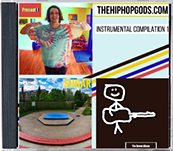
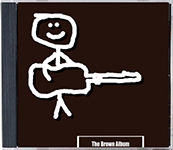
Removed Youtube Video + Compilation

diff --git a/index.html b/index.html
@@ -19,10 +19,8 @@ if(typeof Muse == "undefined") window.Muse = {}; window.Muse.assets = {"required
   <!-- CSS -->
   <link rel="stylesheet" type="text/css" href="css/site_global.css?crc=444006867"/>
   <link rel="stylesheet" type="text/css" href="css/master_a-master.css?crc=3806693221"/>
-  <link rel="stylesheet" type="text/css" href="css/index.css?crc=4276867006" id="pagesheet"/>
-    <!--HTML Widget code-->
-  <style type="text/css">#u4715.size_fluid_width_height iframe { position:absolute; left:0; top:0; }</style>
- </head>
+  <link rel="stylesheet" type="text/css" href="css/index.css?crc=4123129303" id="pagesheet"/>
+   </head>
  <body>
 
   <div class="clearfix borderbox" id="page"><!-- column -->
@@ -37,35 +35,27 @@ if(typeof Muse == "undefined") window.Muse = {}; window.Muse.assets = {"required
      <a class="nonblock nontext grpelem" id="u5539-4" href="https://iammeasgod.bandcamp.com/"><!-- rasterized frame --><img id="u5539-4_img" alt="Digital - 5$" src="images/u5539-4.png?crc=36391652" data-image-width="87"/></a>
     </div>
    </div>
-   <div class="size_fluid_width_height colelem" id="u4715" data-pintopage="page_fluidx" data-sizePolicy="fluidWidthHeight"><!-- custom html -->
-    <div class="fluid_height_spacer"></div>
-    
-<iframe class="actAsDiv" style="width:100%;height:100%;" src="//www.youtube.com/embed/_oKY7qGUNBQ?autoplay=0&loop=0&showinfo=0&theme=dark&color=red&controls=1&modestbranding=0&start=0&fs=1&iv_load_policy=1&wmode=transparent&rel=1" frameborder="0" allowfullscreen></iframe>
-
-   </div>
-   <a class="nonblock nontext clip_frame colelem" id="u5281" href="https://www.trepstar.com/purchase.asp?idprod=227480&amp;mode=itemlist"><!-- image --><img class="block" id="u5281_img" src="images/thumblargecdoutside1.jpg?crc=4143843053" alt="" data-heightwidthratio="0.8713450292397661" data-image-width="171" data-image-height="149"/></a>
-   <a class="nonblock nontext colelem" id="u5295-4" href="https://www.trepstar.com/purchase.asp?idprod=227480&amp;mode=itemlist"><!-- rasterized frame --><img id="u5295-4_img" alt="Buy CD - 10$" src="images/u5295-4.png?crc=3887067705" data-image-width="171"/></a>
-   <div class="clearfix colelem" id="pu4842"><!-- group -->
+   <div class="clearfix colelem" id="pu5281"><!-- group -->
+    <a class="nonblock nontext clip_frame grpelem" id="u5281" href="https://www.trepstar.com/purchase.asp?idprod=227480&amp;mode=itemlist"><!-- image --><img class="block" id="u5281_img" src="images/thumblargecdoutside1.jpg?crc=4143843053" alt="" data-heightwidthratio="0.8713450292397661" data-image-width="171" data-image-height="149"/></a>
     <a class="nonblock nontext clip_frame grpelem" id="u4842" href="https://www.trepstar.com/purchase.asp?idprod=227020&amp;mode=itemlist"><!-- image --><img class="block" id="u4842_img" src="images/thumblargecdoutside12.jpg?crc=402943338" alt="" data-heightwidthratio="0.867816091954023" data-image-width="174" data-image-height="151"/></a>
-    <a class="nonblock nontext clip_frame grpelem" id="u4814" href="https://www.trepstar.com/purchase.asp?idprod=219880&amp;mode=itemlist"><!-- image --><img class="block" id="u4814_img" src="images/thumblargecdoutside13.jpg?crc=4006735484" alt="" data-heightwidthratio="0.8728323699421965" data-image-width="173" data-image-height="151"/></a>
-    <a class="nonblock nontext clip_frame grpelem" id="u4802" href="https://www.trepstar.com/purchase.asp?idprod=219030&amp;mode=itemlist"><!-- image --><img class="block" id="u4802_img" src="images/thumblargecdoutside14.jpg?crc=4136506234" alt="" data-heightwidthratio="0.8670520231213873" data-image-width="173" data-image-height="150"/></a>
+    <a class="nonblock nontext clip_frame grpelem" id="u4802" href="https://www.trepstar.com/purchase.asp?idprod=219030&amp;mode=itemlist"><!-- image --><img class="block" id="u4802_img" src="images/thumblargecdoutside13.jpg?crc=4136506234" alt="" data-heightwidthratio="0.8670520231213873" data-image-width="173" data-image-height="150"/></a>
    </div>
-   <div class="clearfix colelem" id="pu5303-4"><!-- group -->
+   <div class="clearfix colelem" id="pu5295-4"><!-- group -->
+    <a class="nonblock nontext grpelem" id="u5295-4" href="https://www.trepstar.com/purchase.asp?idprod=227480&amp;mode=itemlist"><!-- rasterized frame --><img id="u5295-4_img" alt="Buy CD - 10$" src="images/u5295-4.png?crc=3887067705" data-image-width="171"/></a>
     <a class="nonblock nontext grpelem" id="u5303-4" href="https://www.trepstar.com/purchase.asp?idprod=227020&amp;mode=itemlist"><!-- rasterized frame --><img id="u5303-4_img" alt="Buy CD - 10$" src="images/u5303-4.png?crc=19498023" data-image-width="173"/></a>
-    <a class="nonblock nontext grpelem" id="u5309-4" href="https://www.trepstar.com/purchase.asp?idprod=219880&amp;mode=itemlist"><!-- rasterized frame --><img id="u5309-4_img" alt="Buy CD - 10$" src="images/u5309-4.png?crc=19498023" data-image-width="173"/></a>
     <a class="nonblock nontext grpelem" id="u5315-4" href="https://www.trepstar.com/purchase.asp?idprod=219030&amp;mode=itemlist"><!-- rasterized frame --><img id="u5315-4_img" alt="Buy CD - 10$" src="images/u5315-4.png?crc=19498023" data-image-width="173"/></a>
    </div>
    <div class="clearfix colelem" id="pu4782"><!-- group -->
-    <a class="nonblock nontext clip_frame grpelem" id="u4782" href="https://www.trepstar.com/purchase.asp?idprod=218530&amp;mode=itemlist"><!-- image --><img class="block" id="u4782_img" src="images/thumblargecdoutside15.jpg?crc=407401645" alt="" data-heightwidthratio="0.8728323699421965" data-image-width="173" data-image-height="151"/></a>
-    <a class="nonblock nontext clip_frame grpelem" id="u4724" href="https://www.trepstar.com/purchase.asp?idprod=218250&amp;mode=itemlist"><!-- image --><img class="block" id="u4724_img" src="images/thumblargecdoutside16.jpg?crc=449421280" alt="" data-heightwidthratio="0.8713450292397661" data-image-width="171" data-image-height="149"/></a>
-    <a class="nonblock nontext clip_frame grpelem" id="u4762" href="https://www.trepstar.com/purchase.asp?idprod=218260&amp;mode=itemlist"><!-- image --><img class="block" id="u4762_img" src="images/thumblargecdoutside17.jpg?crc=4294945535" alt="" data-heightwidthratio="0.8764705882352941" data-image-width="170" data-image-height="149"/></a>
+    <a class="nonblock nontext clip_frame grpelem" id="u4782" href="https://www.trepstar.com/purchase.asp?idprod=218530&amp;mode=itemlist"><!-- image --><img class="block" id="u4782_img" src="images/thumblargecdoutside14.jpg?crc=407401645" alt="" data-heightwidthratio="0.8728323699421965" data-image-width="173" data-image-height="151"/></a>
+    <a class="nonblock nontext clip_frame grpelem" id="u4724" href="https://www.trepstar.com/purchase.asp?idprod=218250&amp;mode=itemlist"><!-- image --><img class="block" id="u4724_img" src="images/thumblargecdoutside15.jpg?crc=449421280" alt="" data-heightwidthratio="0.8713450292397661" data-image-width="171" data-image-height="149"/></a>
+    <a class="nonblock nontext clip_frame grpelem" id="u4762" href="https://www.trepstar.com/purchase.asp?idprod=218260&amp;mode=itemlist"><!-- image --><img class="block" id="u4762_img" src="images/thumblargecdoutside16.jpg?crc=4294945535" alt="" data-heightwidthratio="0.8764705882352941" data-image-width="170" data-image-height="149"/></a>
    </div>
    <div class="clearfix colelem" id="pu5321-4"><!-- group -->
     <a class="nonblock nontext grpelem" id="u5321-4" href="https://www.trepstar.com/purchase.asp?idprod=218530&amp;mode=itemlist"><!-- rasterized frame --><img id="u5321-4_img" alt="Buy CD - 10$" src="images/u5321-4.png?crc=19498023" data-image-width="173"/></a>
     <a class="nonblock nontext grpelem" id="u5323-4" href="https://www.trepstar.com/purchase.asp?idprod=218250&amp;mode=itemlist"><!-- rasterized frame --><img id="u5323-4_img" alt="Buy CD - 10$" src="images/u5323-4.png?crc=491753416" data-image-width="172"/></a>
     <a class="nonblock nontext grpelem" id="u5325-4" href="https://www.trepstar.com/purchase.asp?idprod=218260&amp;mode=itemlist"><!-- rasterized frame --><img id="u5325-4_img" alt="Buy CD - 10$" src="images/u5325-4.png?crc=491753416" data-image-width="172"/></a>
    </div>
-   <div class="verticalspacer" data-offset-top="1208" data-content-above-spacer="1207" data-content-below-spacer="61" data-sizePolicy="fixed" data-pintopage="page_fixedLeft"></div>
+   <div class="verticalspacer" data-offset-top="547" data-content-above-spacer="546" data-content-below-spacer="61" data-sizePolicy="fixed" data-pintopage="page_fixedLeft"></div>
   </div>
   <!-- Other scripts -->
   <script type="text/javascript">

diff --git a/css/index.css b/css/index.css
@@ -1,1 +1,1 @@
-.version.index{color:#0000FE;background-color:#EBCFBE;}#page{z-index:1;min-height:412.68889382102293px;background-image:none;border-width:0px;border-color:#000000;background-color:#000000;padding-top:25px;padding-bottom:62.31110617897707px;width:100%;max-width:960px;margin-left:auto;margin-right:auto;}#u5646{z-index:2;padding-bottom:0px;position:relative;width:68.55%;margin-left:15.73%;}#u3741{z-index:3;position:relative;width:100%;}#u3299{z-index:4;position:relative;margin-right:-10000px;width:100%;}#pu5538-4{z-index:6;margin-top:5px;width:27.82%;margin-left:52.28%;}#u5538-4{z-index:6;position:relative;margin-right:-10000px;width:45.91%;}#u5539-4{z-index:10;position:relative;margin-right:-10000px;width:47.55%;left:52.46%;}#u4715{z-index:14;border-width:0px;border-color:transparent;background-color:transparent;max-width:100000px;min-width:10px;margin-top:11px;position:relative;width:83.44%;margin-left:8.23%;}#u4715 .fluid_height_spacer{padding-bottom:54.30711610486891%;}#u5281{z-index:27;background-color:transparent;margin-top:42px;position:relative;width:17.82%;margin-left:41.05%;}#u5295-4{z-index:29;margin-top:5px;position:relative;width:17.82%;margin-left:41.05%;}#pu4842{z-index:25;margin-top:31px;width:58.03%;margin-left:21.15%;}#u4842{z-index:25;background-color:transparent;position:relative;margin-right:-10000px;width:31.24%;}#u4814{z-index:23;background-color:transparent;position:relative;margin-right:-10000px;width:31.24%;left:34.65%;}#u4814_img{padding-right:0.5758710048949035%;width:99.43%;}#u4802{z-index:21;background-color:transparent;position:relative;margin-right:-10000px;width:31.06%;left:68.95%;}#pu5303-4{z-index:33;margin-top:5px;width:58.03%;margin-left:21.15%;}#u5303-4{z-index:33;position:relative;margin-right:-10000px;width:31.06%;}#u5309-4{z-index:37;position:relative;margin-right:-10000px;width:31.06%;left:34.65%;}#u5315-4{z-index:41;position:relative;margin-right:-10000px;width:31.06%;left:68.95%;}#pu4782{z-index:19;margin-top:32px;width:57.82%;margin-left:21.15%;}#u4782{z-index:19;background-color:transparent;position:relative;margin-right:-10000px;width:31.36%;}#u4782_img{padding-right:0.575871004894903%;width:99.43%;}#u4724{z-index:15;background-color:transparent;position:relative;margin-right:-10000px;width:30.82%;left:35.14%;}#u4762{z-index:17;background-color:transparent;position:relative;margin-right:-10000px;width:30.64%;left:69.37%;}#u4762_img{padding-top:1.7647058823529411%;padding-bottom:0.5882352941176471%;width:100%;}#pu5321-4{z-index:45;margin-top:2px;width:58.03%;margin-left:21.05%;}#u5321-4{z-index:45;position:relative;margin-right:-10000px;width:31.06%;}#u5323-4{z-index:49;position:relative;margin-right:-10000px;width:30.88%;left:35.01%;}#u5325-4{z-index:53;position:relative;margin-right:-10000px;width:30.88%;left:69.13%;}#u5295-4_img,#u5303-4_img,#u5309-4_img,#u5315-4_img,#u5321-4_img,#u5323-4_img,#u5325-4_img{display:block;vertical-align:top;width:100%;}.css_verticalspacer .verticalspacer{height:calc(100vh - 1268px);}#muse_css_mq,.html{background-color:#FFFFFF;}body{position:relative;min-width:320px;}#u5281_img,#u4842_img,#u4802_img,#u4724_img,#u3299_img,#u5538-4_img,#u5539-4_img{width:100%;}
+.version.index{color:#0000F5;background-color:#C1F5D7;}#page{z-index:1;min-height:412.588893821023px;background-image:none;border-width:0px;border-color:#000000;background-color:#000000;padding-top:25px;padding-bottom:62.41110617897698px;width:100%;max-width:960px;margin-left:auto;margin-right:auto;}#u5646{z-index:2;padding-bottom:0px;position:relative;width:68.55%;margin-left:15.73%;}#u3741{z-index:3;position:relative;width:100%;}#u3299{z-index:4;position:relative;margin-right:-10000px;width:100%;}#pu5538-4{z-index:6;margin-top:5px;width:27.82%;margin-left:52.28%;}#u5538-4{z-index:6;position:relative;margin-right:-10000px;width:45.91%;}#u5539-4{z-index:10;position:relative;margin-right:-10000px;width:47.55%;left:52.46%;}#pu5281{z-index:24;margin-top:35px;width:57.92%;margin-left:21.15%;}#u5281{z-index:24;background-color:transparent;position:relative;margin-right:-10000px;margin-top:2px;width:30.76%;}#u4842{z-index:22;background-color:transparent;position:relative;margin-right:-10000px;width:31.3%;left:34.18%;}#u4802{z-index:20;background-color:transparent;position:relative;margin-right:-10000px;width:31.12%;left:68.89%;}#pu5295-4{z-index:26;margin-top:4px;width:57.92%;margin-left:21.15%;}#u5295-4{z-index:26;position:relative;margin-right:-10000px;width:30.76%;}#u5303-4{z-index:30;position:relative;margin-right:-10000px;width:31.12%;left:34.18%;}#u5315-4{z-index:34;position:relative;margin-right:-10000px;width:31.12%;left:68.89%;}#pu4782{z-index:18;margin-top:32px;width:57.82%;margin-left:20.94%;}#u4782{z-index:18;background-color:transparent;position:relative;margin-right:-10000px;width:31.36%;}#u4782_img{padding-right:0.575871004894903%;width:99.43%;}#u4724{z-index:14;background-color:transparent;position:relative;margin-right:-10000px;width:30.82%;left:35.14%;}#u4762{z-index:16;background-color:transparent;position:relative;margin-right:-10000px;width:30.64%;left:69.37%;}#u4762_img{padding-top:1.7647058823529411%;padding-bottom:0.5882352941176471%;width:100%;}#pu5321-4{z-index:38;margin-top:2px;width:58.03%;margin-left:20.94%;}#u5321-4{z-index:38;position:relative;margin-right:-10000px;width:31.06%;}#u5323-4{z-index:42;position:relative;margin-right:-10000px;width:30.88%;left:35.01%;}#u5325-4{z-index:46;position:relative;margin-right:-10000px;width:30.88%;left:69.13%;}#u5295-4_img,#u5303-4_img,#u5315-4_img,#u5321-4_img,#u5323-4_img,#u5325-4_img{display:block;vertical-align:top;width:100%;}.css_verticalspacer .verticalspacer{height:calc(100vh - 607px);}#muse_css_mq,.html{background-color:#FFFFFF;}body{position:relative;min-width:320px;}#u5281_img,#u4842_img,#u4802_img,#u4724_img,#u3299_img,#u5538-4_img,#u5539-4_img{width:100%;}
